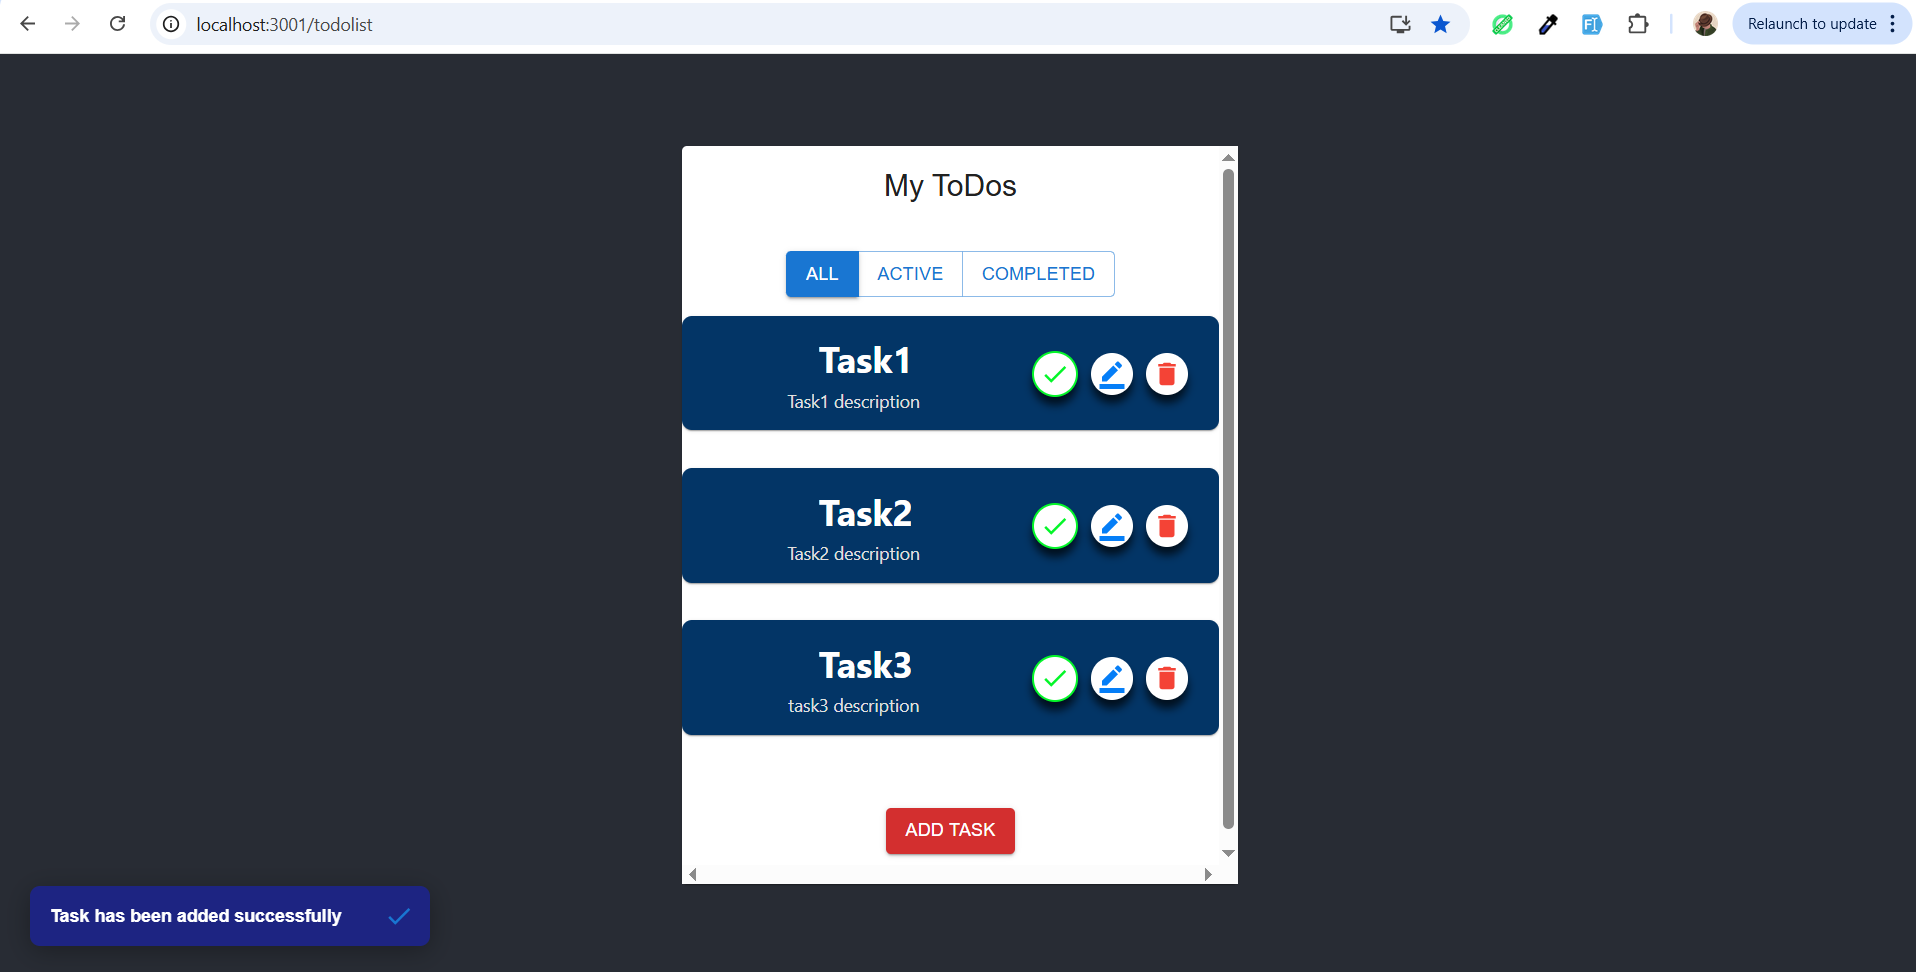
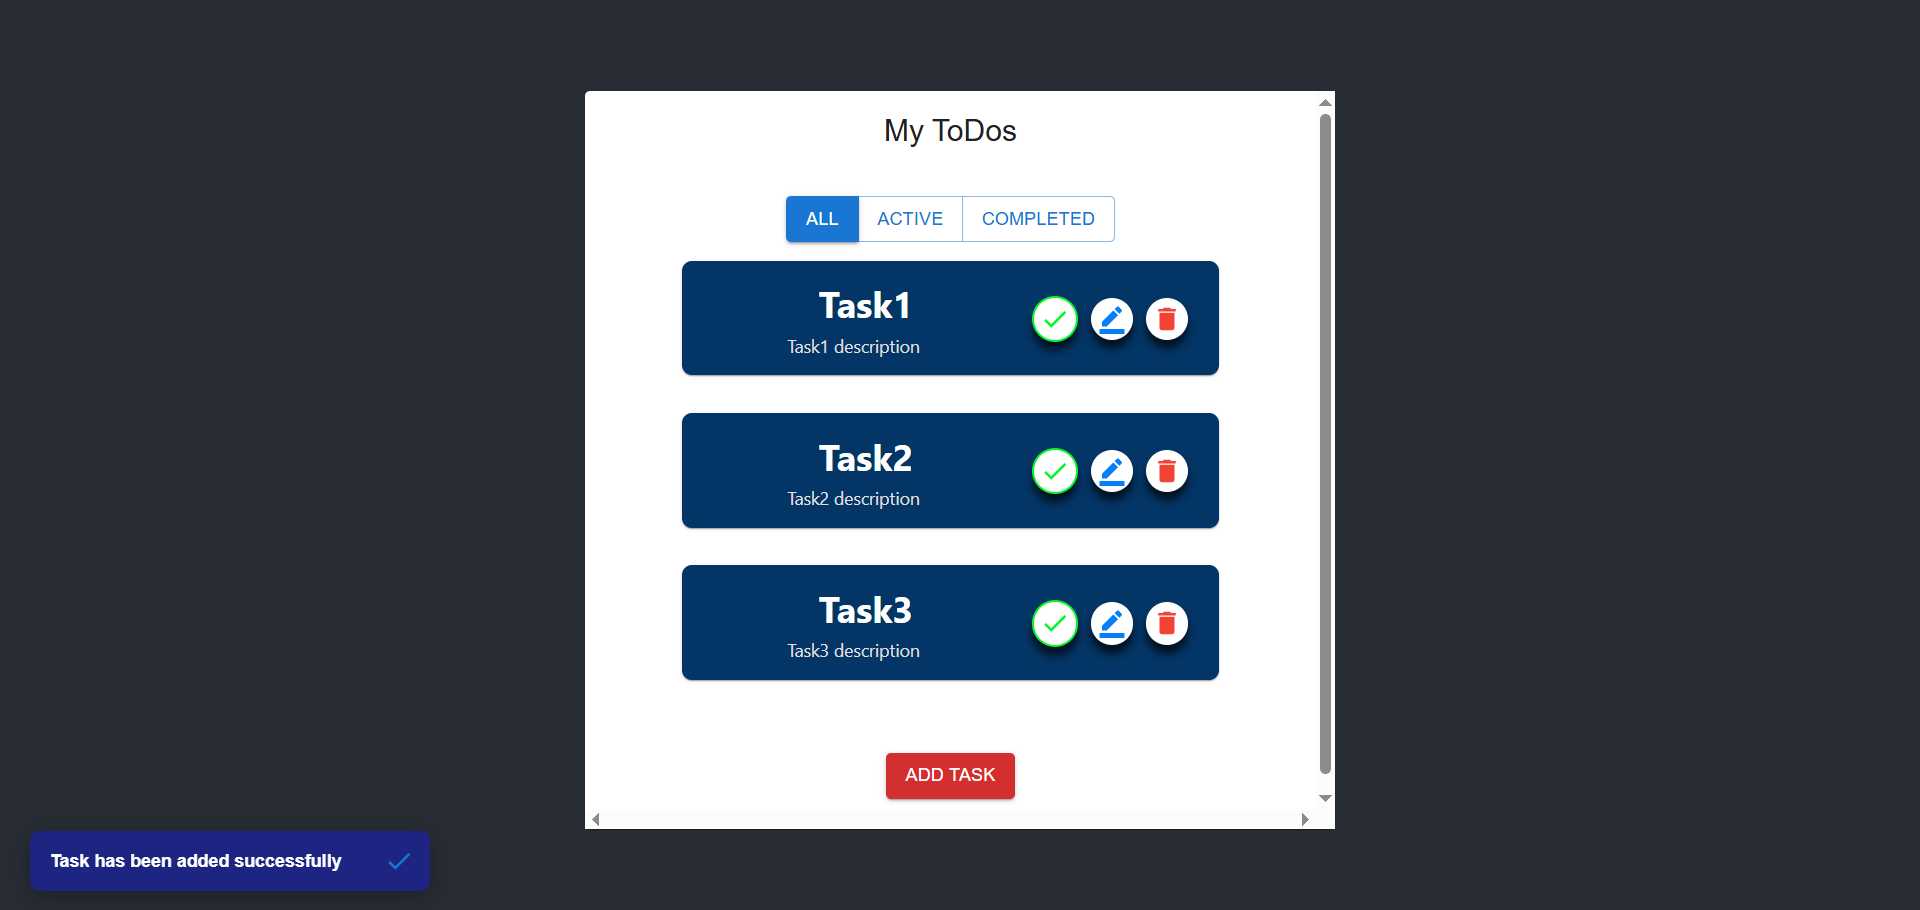
Adjusting the style to suit the display on phone

diff --git a/src/Components/ToDoList.js b/src/Components/ToDoList.js
@@ -1,4 +1,5 @@
 import '../App.css'; // Styles
+import { CardContentStyle , CardHeaderSX , CardHeaderStyle } from '../Styles/Styles';
 // Mui components
 import Box from '@mui/material/Box';
 import Card from '@mui/material/Card';
@@ -33,7 +34,7 @@ export default function ToDoList() {
 
     return (
         <>
-            <Card style={{maxHeight: "80vh",overflow:"scroll"}} sx={{ width: { xs: '95vw', sm: '80vw', md: 600 }, maxWidth: '100%' }}>
+            <Card style={CardHeaderStyle} sx={CardHeaderSX}>
                 <CardContent>
                     <Typography variant="h5" component="div">
                         My ToDos
@@ -41,16 +42,7 @@ export default function ToDoList() {
                 </CardContent>
 
                 <Box
-                    sx={{
-                        width: { xs: '95%', sm: 500 }, 
-                        m: "20px auto", 
-                        position: 'relative', 
-                        minHeight: 400, 
-                        display: 'flex',
-                        flexDirection: 'column',
-                        alignItems: 'center',
-                        pb: 10
-                    }}
+                    sx={CardContentStyle}
                     >
                     <ButtonGroup variant="outlined" aria-label="Basic button group">
                         <Button

diff --git a/src/Styles/Styles.js b/src/Styles/Styles.js
@@ -95,3 +95,18 @@ export let TaskStyle =  {
         boxShadow: '0 10px 20px rgba(0,0,0,0.3)',
     }
 }
+
+export let CardContentStyle = {
+    width: { xs: '95%', sm: 500 }, 
+    m: "20px auto", 
+    position: 'relative', 
+    minHeight: 400, 
+    display: 'flex',
+    flexDirection: 'column',
+    alignItems: 'center',
+    pb: 10
+}
+
+export let CardHeaderSX = { width: { xs: '95vw', sm: '80vw', md: 600 }, maxWidth: '100%' }
+
+export let CardHeaderStyle = {maxHeight: "80vh",overflow:"scroll"}
